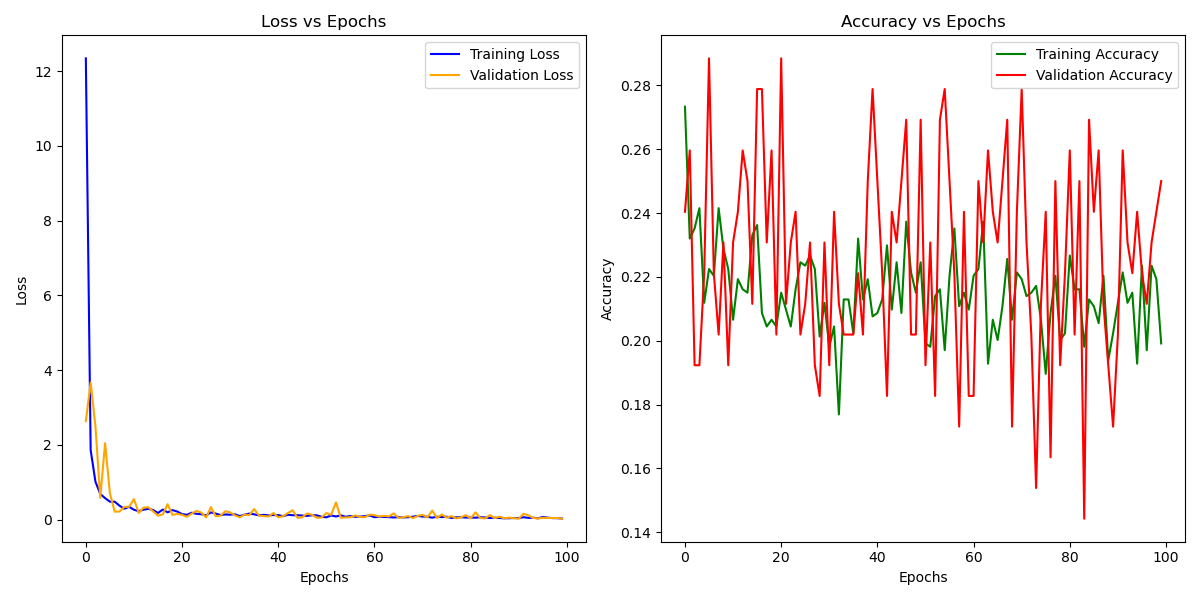
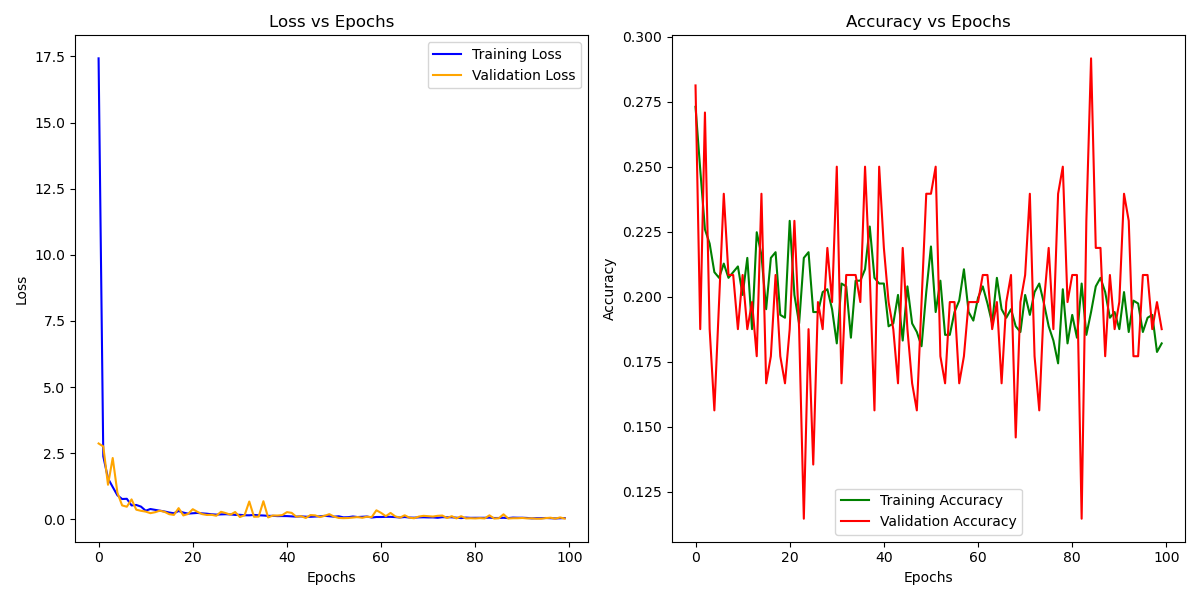
added support to detach the encoded input

diff --git a/cpc_model.py b/cpc_model.py
@@ -296,11 +296,11 @@ class CPC_postnet(Module):
             if weight_matrices is None:
                 predicted_future_Z.append(self.W[i](X))
             else:
-                if self.detach:
-                    W_i = weight_matrices[i].detach()
-                else:
-                    W_i = weight_matrices[i]
-                predicted_future_Z.append(torch.matmul(X, W_i.T))                # X_pred = X.W_k^T
+                # if self.detach:
+                #     W_i = weight_matrices[i].detach()
+                # else:
+                W_i = weight_matrices[i]
+                predicted_future_Z.append(torch.matmul(X, W_i.T))   # X_pred = X.W_k^T
 
         predicted_future_Z = stack(predicted_future_Z, dim=0)
         # predicted_future_Z is of size [future_predicted_timesteps, batch_size, num_features] or

diff --git a/train_cpc_model.py b/train_cpc_model.py
@@ -276,7 +276,10 @@ if __name__ == '__main__':
                         # if batch_labels != []:
                         #     loss = loss_function(Z_future_timesteps, predicted_future_Z, batch_labels)
                         # else:
-                        loss = loss_function(Z_future_timesteps, predicted_future_Z)
+                        if conf.w_params['detach']:
+                            loss = loss_function(Z_future_timesteps.detach(), predicted_future_Z)
+                        else:
+                            loss = loss_function(Z_future_timesteps, predicted_future_Z)
                         
                         # Add the loss to the total loss of the batch
                         loss_batch += loss

diff --git a/confs/conf_train_ldmcpc_rnd21.py b/confs/conf_train_ldmcpc_rnd21.py
@@ -10,7 +10,7 @@ The configuration file for train_cpc_model.py using the original CPC implementat
 import argparse
 
 # The hyperparameters for our training and testing process
-max_epochs = 1
+max_epochs = 100
 patience = 150
 dropout = 0.0
 batch_size = 8
@@ -85,7 +85,7 @@ lr_scheduler_params = {'mode': 'min',
 encoder_params = {'dropout': dropout}
 ar_model_params = {'type': 'gru'}
 w_params = {'future_predicted_timesteps': future_predicted_timesteps,
-            'detach':False}
+            'detach':True}
 w_use_ldm_params = 0
 
 # The names of the best models (according to validation loss) for loading/saving model weights

diff --git a/plot_figures.py b/plot_figures.py
@@ -3,11 +3,11 @@ import numpy as np
 import matplotlib.pyplot as plt
 
 # Define your variables
-ar_type = 'ldm'
-use_ldm_params = 1
-k = 4
+ar_type = 'gru'
+use_ldm_params = 0
+k = 3
 loss_flag = 'mse'
-rnd_seeds = [21, 22, 23, 24, 25]
+rnd_seeds = [21]
 pickle_files = [f"metrics/metrics_{ar_type}_ldmfcst{use_ldm_params}_{k}_rnd{rnd_seed}_mse" for rnd_seed in rnd_seeds]
 
 # Initialize list to store test_acc values and dictionary for metrics
